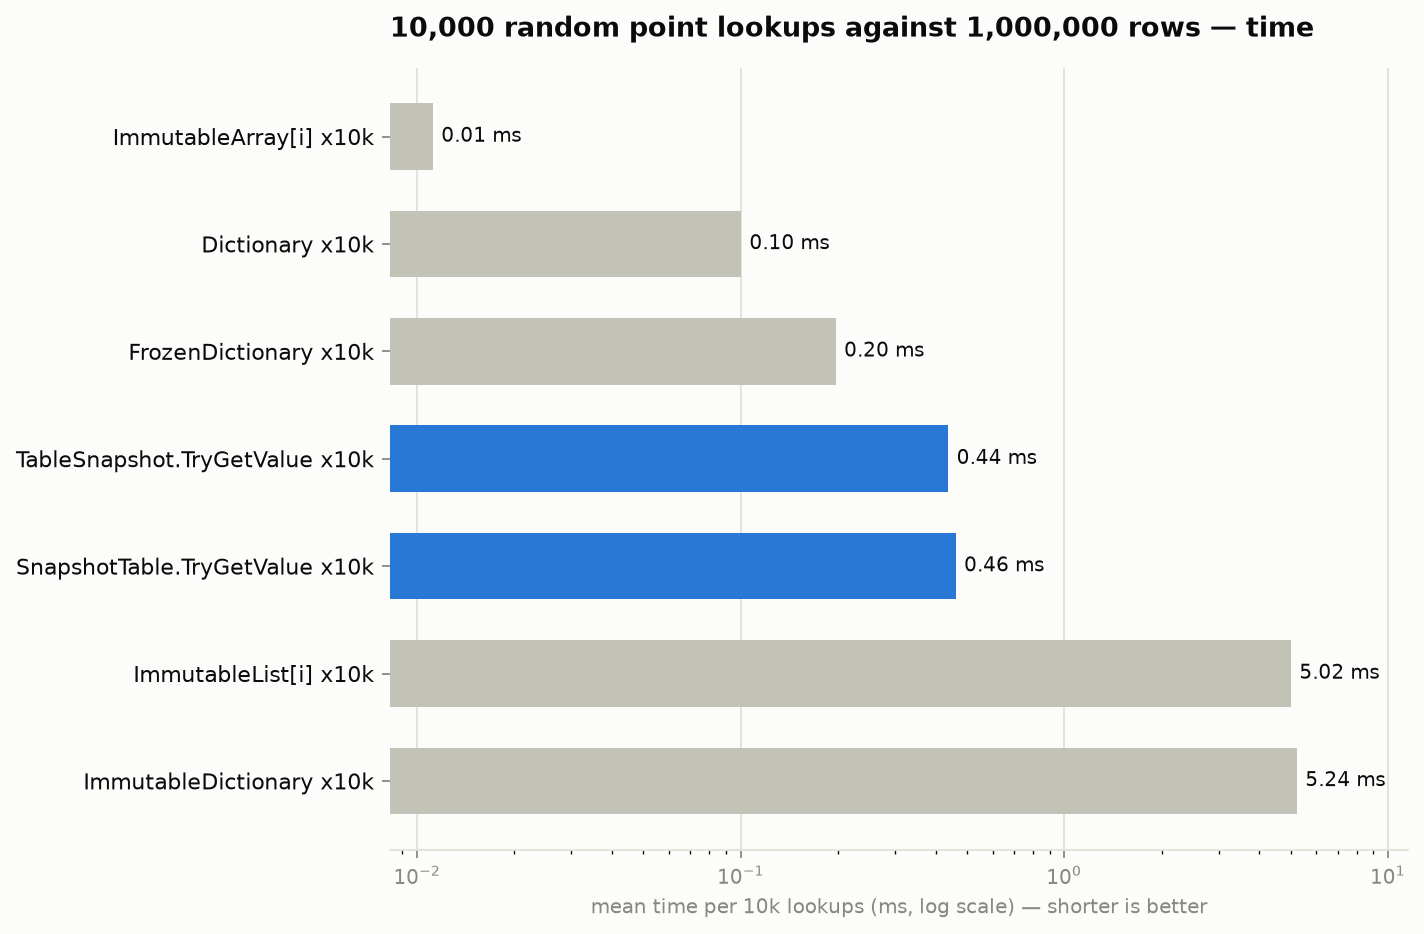
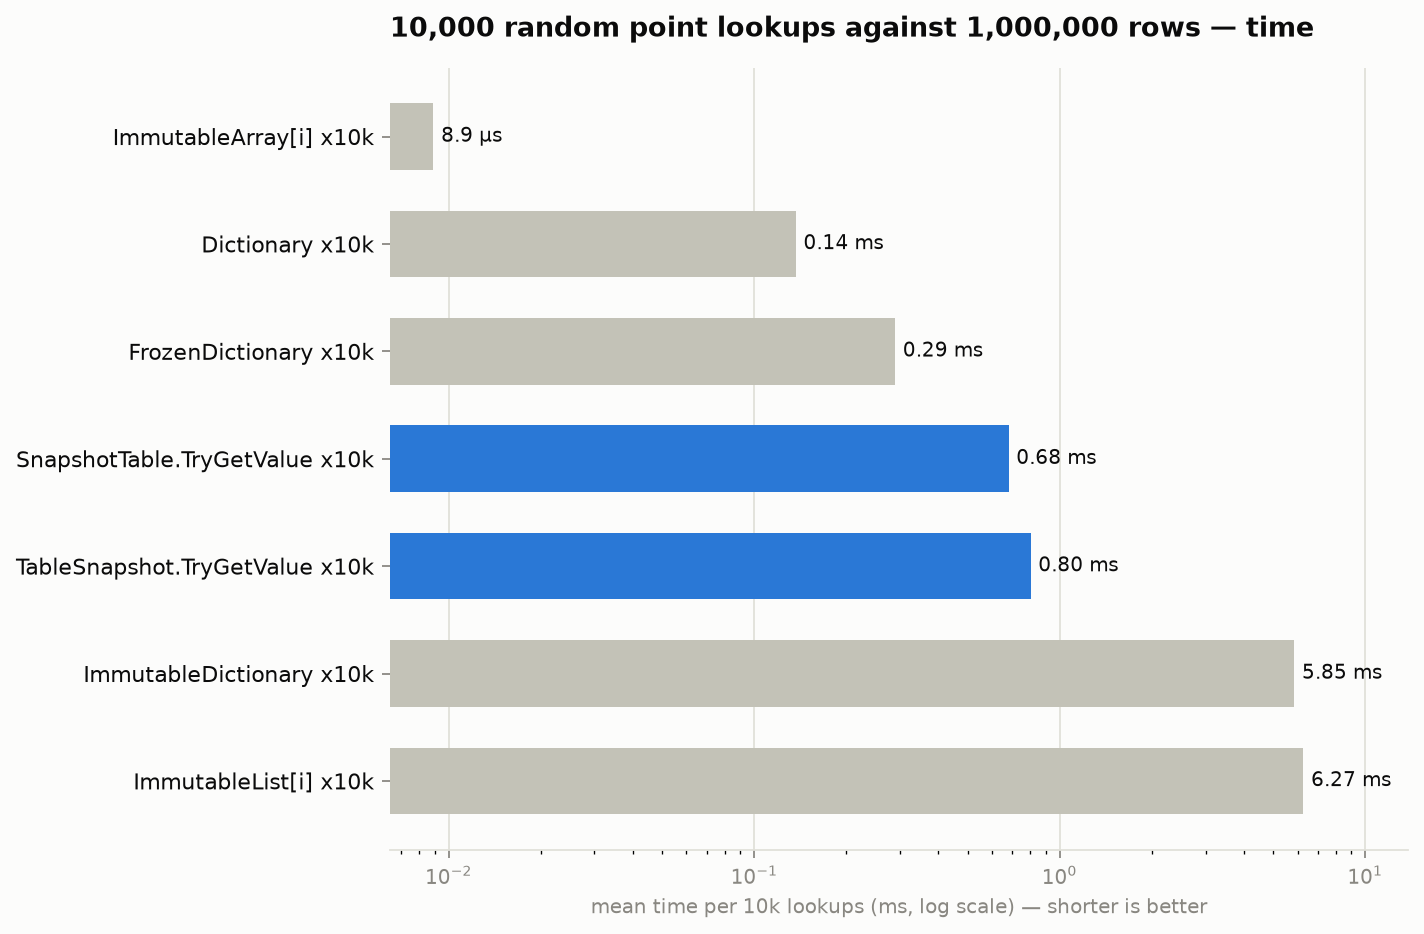
Refresh benchmark tables and charts against the scaled core
Re-measured all suites on the rewritten core (adaptive chunks, two-level
spine/directory) and updated RESULTS.md, charts, and raw reports. Added
an environment-variance caveat: this shared VM drifts up to ~2x between
sessions, so relative ordering and allocation/GC columns are the stable
signal. Reworded the 1M-scale analysis honestly: at that size a uniform
5k batch touches most chunks, so apply time matches rebuild approaches
and the differentiators are zero Gen2/LOH activity and read speed; the
O(batch) apply-time win materializes at large N (5x at 100M, section 4).

Claude-Session: https://claude.ai/code/session_01PzT4ASRicyvz83uLSnb7fq

diff --git a/benchmarks/RESULTS.md b/benchmarks/RESULTS.md
@@ -9,8 +9,11 @@ Linux Ubuntu 24.04.4 LTS, Intel Xeon 2.10GHz, 4 physical cores
 ```
 
 ShortRun numbers are indicative; re-run without `--job short` for publication-grade statistics.
-Raw reports (CSV + markdown) are in [`results/raw/`](results/raw/), the plotting script is
-[`plot_results.py`](plot_results.py).
+**Environment variance caveat**: this is a shared cloud VM whose absolute timings drift up to ~2x
+between sessions (the identical `Dictionary rebuild` code measured 11.4-14.8 ms across runs).
+Relative ordering and the allocation/GC columns are stable across every run and are the numbers
+to trust. Raw reports (CSV + markdown) are in [`results/raw/`](results/raw/), the plotting script
+is [`plot_results.py`](plot_results.py).
 
 ## Scenario counts (what each benchmark actually does)
 
@@ -33,23 +36,24 @@ keyed by `long`. Read/load scenarios use `long → long` to isolate structure co
 
 | Method | Mean | Allocated | Gen2/LOH collections |
 |---|---:|---:|---:|
-| **SnapshotTable.ApplyChanges** | **4.87 ms** | 15.33 MB | **0** |
-| ImmutableList.SetItem ×B (keyed rows)¹ | 5.13 ms | 1.82 MB | 0 |
-| ImmutableDictionary.SetItems | 7.60 ms | 2.07 MB | 0 |
-| ImmutableArray.SetItem ×B via builder | 8.80 ms | 30.52 MB | yes — full array copy on LOH |
-| Dictionary rebuild + swap | 14.76 ms | 31.05 MB | yes |
-| FrozenDictionary rebuild | 55.27 ms | 98.45 MB | yes |
+| ImmutableList.SetItem ×B (keyed rows)¹ | 5.96 ms | 1.82 MB | 0 |
+| Dictionary rebuild + swap | 11.59 ms | 31.05 MB | yes |
+| ImmutableArray.SetItem ×B via builder | 11.90 ms | 30.52 MB | yes — full array copy on LOH |
+| **SnapshotTable.ApplyChanges** | **12.45 ms** | 15.33 MB | **0** |
+| ImmutableDictionary.SetItems | 14.59 ms | 2.07 MB | 0 |
+| FrozenDictionary rebuild | 59.92 ms | 98.45 MB | yes |
 
 ¹ Flattered: charged only for row replacement, assuming a free pre-existing key→index map —
 maintaining that index is exactly what `SnapshotTable` does and `ImmutableList` doesn't.
 
-**Read together with the read chart below**: the two BCL structures that allocate less per batch
-(`ImmutableList`, `ImmutableDictionary`) are the two that read **11× slower** on the hot path, and
-their steady-state memory footprint is a multiple of the raw data (tree/trie nodes per element).
-`SnapshotTable` is the only keyed option that is simultaneously the fastest to refresh, **zero
-Gen2/LOH activity**, and dictionary-class on reads. Its 15 MB per batch is chunk copy-on-write
-for a *uniformly random* batch (5k keys touch ~all 245 chunks ≈ 16 MB of rows); clustered batches
-copy proportionally less, and all of it is small-object-heap, collected in Gen0/Gen1.
+**How to read this**: at 1M rows a uniformly random 5k batch touches nearly every 64 KB chunk, so
+`SnapshotTable`'s apply time lands in the same band as an O(N) rebuild — the batch is simply not
+sparse relative to this table. Its differentiators at this scale are the columns, not the row:
+**zero Gen2/LOH activity** (every full-rebuild option hits the LOH each cycle) and dictionary-class
+reads (the two structures that allocate less per batch, `ImmutableList`/`ImmutableDictionary`,
+read ~9-11× slower and carry 3-5× the steady-state memory). The apply-time advantage grows with
+table size as the batch becomes sparse: at 100M rows it is ~5× faster than a rebuild could ever be
+(section 4) — and clustered (non-random) batches copy proportionally less at any scale.
 
 ## 2. Point lookups (hot path)
 
@@ -57,20 +61,20 @@ copy proportionally less, and all of it is small-object-heap, collected in Gen0/
 
 | Method | Mean (10k lookups) | Per lookup | Allocated |
 |---|---:|---:|---:|
-| ImmutableArray[i]² | 11.2 μs | ~1 ns | 0 |
-| Dictionary | 100 μs | ~10 ns | 0 |
-| FrozenDictionary | 197 μs | ~20 ns | 0 |
-| **TableSnapshot.TryGetValue** | **439 μs** | **~44 ns** | **0** |
-| **SnapshotTable.TryGetValue** | **462 μs** | **~46 ns** | **0** |
-| ImmutableList[i] | 5,022 μs | ~502 ns | 0 |
-| ImmutableDictionary | 5,240 μs | ~524 ns | 0 |
+| ImmutableArray[i]² | 8.9 μs | ~1 ns | 0 |
+| Dictionary | 137 μs | ~14 ns | 0 |
+| FrozenDictionary | 289 μs | ~29 ns | 0 |
+| **SnapshotTable.TryGetValue** | **680 μs** | **~68 ns** | **0** |
+| **TableSnapshot.TryGetValue** | **802 μs** | **~80 ns** | **0** |
+| ImmutableList[i] | 6,267 μs | ~627 ns | 0 |
+| ImmutableDictionary | 5,852 μs | ~585 ns | 0 |
 
 ² Positional index only — not a keyed lookup; included as the raw-array speed floor.
 
-The honest trade-off: a plain `Dictionary` reads ~4.6× faster per lookup (~10 ns vs ~46 ns).
-`SnapshotTable`'s extra ~35 ns buys lock-free consistent snapshots and O(batch) LOH-free
-refreshes. Against the structures it replaces (`ImmutableList`/`ImmutableDictionary`) it reads
-**~11× faster**.
+The honest trade-off: a plain `Dictionary` reads ~5× faster per lookup (~14 ns vs ~68 ns; the
+extra cost is the shard-directory hop plus the chunked-row hop). That premium buys lock-free
+consistent snapshots and LOH-free refreshes. Against the structures it replaces
+(`ImmutableList`/`ImmutableDictionary`) it reads **~9× faster**.
 
 ## 3. Initial full load (one-time cost)
 
@@ -78,15 +82,15 @@ refreshes. Against the structures it replaces (`ImmutableList`/`ImmutableDiction
 
 | Method | Mean | Allocated |
 |---|---:|---:|
-| Dictionary | 13.2 ms | 31.05 MB |
-| ImmutableList.CreateRange | 44.6 ms | 53.41 MB |
-| **SnapshotTable.Reset** | **65.7 ms** | **120.63 MB** |
-| FrozenDictionary.ToFrozenDictionary | 69.0 ms | 139.35 MB |
-| ImmutableDictionary.CreateRange | 241.7 ms | 241.72 MB |
+| Dictionary | 15.4 ms | 31.05 MB |
+| FrozenDictionary.ToFrozenDictionary | 82.1 ms | 139.35 MB |
+| ImmutableList.CreateRange | 109.2 ms | 53.41 MB |
+| **SnapshotTable.Reset** | **111.7 ms** | **54.52 MB** |
+| ImmutableDictionary.CreateRange | 346.1 ms | 61.04 MB |
 
-Load is `SnapshotTable`'s worst phase (shard dictionaries grow by doubling), but it happens once
-at startup; the transient allocation is collected immediately after. If startup is critical, a
-future `Reset` overload taking a count hint can pre-size shards.
+Load is `SnapshotTable`'s weakest phase (~7× a raw `Dictionary` fill), but it happens once at
+startup and shards are pre-sized from `CapacityHint`, so allocation is now only ~1.8× the raw
+data. At 100M rows the measured load rate is 1.4M rows/s (section 4).
 
 ## 4. The target workload: 100,000,000 rows, 20,000 changes every 30 seconds
 

diff --git a/benchmarks/results/raw/DotnetTools.SnapshotCache.Benchmarks.ReadBenchmarks-report-github.md b/benchmarks/results/raw/DotnetTools.SnapshotCache.Benchmarks.ReadBenchmarks-report-github.md
@@ -1,7 +1,7 @@
 ```
 
 BenchmarkDotNet v0.15.8, Linux Ubuntu 24.04.4 LTS (Noble Numbat)
-Intel Xeon Processor 2.10GHz, 1 CPU, 4 logical and 4 physical cores
+Intel Xeon Processor 2.80GHz, 1 CPU, 4 logical and 4 physical cores
 .NET SDK 10.0.110
   [Host]   : .NET 10.0.10 (10.0.10, 10.0.1026.32716), X64 RyuJIT x86-64-v4
   ShortRun : .NET 10.0.10 (10.0.10, 10.0.1026.32716), X64 RyuJIT x86-64-v4
@@ -10,12 +10,12 @@ Job=ShortRun  IterationCount=3  LaunchCount=1
 WarmupCount=3  
 
 ```
-| Method                           | N       | Mean        | Error        | StdDev     | Ratio | RatioSD | Allocated | Alloc Ratio |
-|--------------------------------- |-------- |------------:|-------------:|-----------:|------:|--------:|----------:|------------:|
-| &#39;SnapshotTable.TryGetValue x10k&#39; | 1000000 |   462.48 μs |   311.596 μs |  17.080 μs |  1.00 |    0.04 |         - |          NA |
-| &#39;TableSnapshot.TryGetValue x10k&#39; | 1000000 |   438.70 μs |   222.323 μs |  12.186 μs |  0.95 |    0.04 |         - |          NA |
-| &#39;Dictionary x10k&#39;                | 1000000 |   100.44 μs |    18.068 μs |   0.990 μs |  0.22 |    0.01 |         - |          NA |
-| &#39;FrozenDictionary x10k&#39;          | 1000000 |   196.97 μs |    77.409 μs |   4.243 μs |  0.43 |    0.02 |         - |          NA |
-| &#39;ImmutableDictionary x10k&#39;       | 1000000 | 5,239.75 μs | 2,772.602 μs | 151.976 μs | 11.34 |    0.46 |         - |          NA |
-| &#39;ImmutableList[i] x10k&#39;          | 1000000 | 5,021.57 μs | 3,164.948 μs | 173.481 μs | 10.87 |    0.47 |         - |          NA |
-| &#39;ImmutableArray[i] x10k&#39;         | 1000000 |    11.22 μs |     1.530 μs |   0.084 μs |  0.02 |    0.00 |         - |          NA |
+| Method                           | N       | Mean         | Error          | StdDev      | Ratio | RatioSD | Allocated | Alloc Ratio |
+|--------------------------------- |-------- |-------------:|---------------:|------------:|------:|--------:|----------:|------------:|
+| &#39;SnapshotTable.TryGetValue x10k&#39; | 1000000 |   679.870 μs |  1,065.7303 μs |  58.4163 μs |  1.00 |    0.10 |         - |          NA |
+| &#39;TableSnapshot.TryGetValue x10k&#39; | 1000000 |   802.388 μs |    329.3125 μs |  18.0507 μs |  1.19 |    0.09 |         - |          NA |
+| &#39;Dictionary x10k&#39;                | 1000000 |   136.785 μs |      2.5911 μs |   0.1420 μs |  0.20 |    0.01 |         - |          NA |
+| &#39;FrozenDictionary x10k&#39;          | 1000000 |   289.172 μs |     25.5697 μs |   1.4016 μs |  0.43 |    0.03 |         - |          NA |
+| &#39;ImmutableDictionary x10k&#39;       | 1000000 | 5,852.177 μs | 11,274.2657 μs | 617.9805 μs |  8.65 |    1.00 |         - |          NA |
+| &#39;ImmutableList[i] x10k&#39;          | 1000000 | 6,267.221 μs | 13,358.5368 μs | 732.2265 μs |  9.26 |    1.15 |         - |          NA |
+| &#39;ImmutableArray[i] x10k&#39;         | 1000000 |     8.921 μs |      0.1889 μs |   0.0104 μs |  0.01 |    0.00 |         - |          NA |

diff --git a/benchmarks/results/raw/DotnetTools.SnapshotCache.Benchmarks.BatchUpdateBenchmarks-report-github.md b/benchmarks/results/raw/DotnetTools.SnapshotCache.Benchmarks.BatchUpdateBenchmarks-report-github.md
@@ -1,7 +1,7 @@
 ```
 
 BenchmarkDotNet v0.15.8, Linux Ubuntu 24.04.4 LTS (Noble Numbat)
-Intel Xeon Processor 2.10GHz, 1 CPU, 4 logical and 4 physical cores
+Intel Xeon Processor 2.80GHz, 1 CPU, 4 logical and 4 physical cores
 .NET SDK 10.0.110
   [Host]   : .NET 10.0.10 (10.0.10, 10.0.1026.32716), X64 RyuJIT x86-64-v4
   ShortRun : .NET 10.0.10 (10.0.10, 10.0.1026.32716), X64 RyuJIT x86-64-v4
@@ -10,11 +10,11 @@ Job=ShortRun  IterationCount=3  LaunchCount=1
 WarmupCount=3  
 
 ```
-| Method                                  | N       | BatchSize | Mean      | Error     | StdDev    | Ratio | RatioSD | Gen0     | Gen1     | Gen2     | Allocated | Alloc Ratio |
-|---------------------------------------- |-------- |---------- |----------:|----------:|----------:|------:|--------:|---------:|---------:|---------:|----------:|------------:|
-| SnapshotTable.ApplyChanges              | 1000000 | 5000      |  4.874 ms |  2.440 ms | 0.1337 ms |  1.00 |    0.03 | 187.5000 | 179.6875 |        - |  15.33 MB |        1.00 |
-| ImmutableDictionary.SetItems            | 1000000 | 5000      |  7.597 ms |  4.027 ms | 0.2207 ms |  1.56 |    0.05 |  23.4375 |   7.8125 |        - |   2.07 MB |        0.14 |
-| &#39;ImmutableList.SetItem xB (keyed rows)&#39; | 1000000 | 5000      |  5.127 ms |  1.922 ms | 0.1053 ms |  1.05 |    0.03 |  15.6250 |   7.8125 |        - |   1.82 MB |        0.12 |
-| &#39;ImmutableArray.SetItem xB via builder&#39; | 1000000 | 5000      |  8.801 ms |  3.216 ms | 0.1763 ms |  1.81 |    0.05 |  31.2500 |  31.2500 |  31.2500 |  30.52 MB |        1.99 |
-| &#39;Dictionary rebuild + swap&#39;             | 1000000 | 5000      | 14.759 ms |  3.470 ms | 0.1902 ms |  3.03 |    0.08 |  31.2500 |  31.2500 |  31.2500 |  31.05 MB |        2.03 |
-| &#39;FrozenDictionary rebuild&#39;              | 1000000 | 5000      | 55.270 ms | 26.389 ms | 1.4464 ms | 11.35 |    0.37 | 125.0000 | 125.0000 | 125.0000 |  98.45 MB |        6.42 |
+| Method                                  | N       | BatchSize | Mean      | Error      | StdDev    | Ratio | RatioSD | Gen0     | Gen1     | Gen2     | Allocated | Alloc Ratio |
+|---------------------------------------- |-------- |---------- |----------:|-----------:|----------:|------:|--------:|---------:|---------:|---------:|----------:|------------:|
+| SnapshotTable.ApplyChanges              | 1000000 | 5000      | 12.446 ms |  9.2672 ms | 0.5080 ms |  1.00 |    0.05 | 906.2500 | 875.0000 |        - |  15.33 MB |        1.00 |
+| ImmutableDictionary.SetItems            | 1000000 | 5000      | 14.592 ms | 41.7708 ms | 2.2896 ms |  1.17 |    0.16 | 125.0000 | 109.3750 |        - |   2.07 MB |        0.14 |
+| &#39;ImmutableList.SetItem xB (keyed rows)&#39; | 1000000 | 5000      |  5.964 ms |  6.2579 ms | 0.3430 ms |  0.48 |    0.03 | 109.3750 |  46.8750 |        - |   1.82 MB |        0.12 |
+| &#39;ImmutableArray.SetItem xB via builder&#39; | 1000000 | 5000      | 11.900 ms |  7.4071 ms | 0.4060 ms |  0.96 |    0.04 |  15.6250 |  15.6250 |  15.6250 |  30.52 MB |        1.99 |
+| &#39;Dictionary rebuild + swap&#39;             | 1000000 | 5000      | 11.594 ms |  0.7852 ms | 0.0430 ms |  0.93 |    0.03 |  31.2500 |  31.2500 |  31.2500 |  31.05 MB |        2.03 |
+| &#39;FrozenDictionary rebuild&#39;              | 1000000 | 5000      | 59.916 ms |  7.8817 ms | 0.4320 ms |  4.82 |    0.17 | 125.0000 | 125.0000 | 125.0000 |  98.45 MB |        6.42 |

diff --git a/benchmarks/results/raw/DotnetTools.SnapshotCache.Benchmarks.InitialLoadBenchmarks-report-github.md b/benchmarks/results/raw/DotnetTools.SnapshotCache.Benchmarks.InitialLoadBenchmarks-report-github.md
@@ -1,7 +1,7 @@
 ```
 
 BenchmarkDotNet v0.15.8, Linux Ubuntu 24.04.4 LTS (Noble Numbat)
-Intel Xeon Processor 2.10GHz, 1 CPU, 4 logical and 4 physical cores
+Intel Xeon Processor 2.80GHz, 1 CPU, 4 logical and 4 physical cores
 .NET SDK 10.0.110
   [Host]   : .NET 10.0.10 (10.0.10, 10.0.1026.32716), X64 RyuJIT x86-64-v4
   ShortRun : .NET 10.0.10 (10.0.10, 10.0.1026.32716), X64 RyuJIT x86-64-v4
@@ -10,10 +10,10 @@ Job=ShortRun  IterationCount=3  LaunchCount=1
 WarmupCount=3  
 
 ```
-| Method                              | N       | Mean      | Error    | StdDev   | Ratio | RatioSD | Gen0      | Gen1      | Gen2      | Allocated | Alloc Ratio |
-|------------------------------------ |-------- |----------:|---------:|---------:|------:|--------:|----------:|----------:|----------:|----------:|------------:|
-| SnapshotTable.Reset                 | 1000000 |  65.73 ms | 81.54 ms | 4.469 ms |  1.00 |    0.08 | 1375.0000 | 1250.0000 |  500.0000 | 120.63 MB |        1.00 |
-| ImmutableList.CreateRange           | 1000000 |  44.59 ms | 16.88 ms | 0.925 ms |  0.68 |    0.04 |  666.6667 |  600.0000 |         - |  53.41 MB |        0.44 |
-| ImmutableDictionary.CreateRange     | 1000000 | 241.72 ms | 46.41 ms | 2.544 ms |  3.69 |    0.22 |  666.6667 |  333.3333 |         - |  61.04 MB |        0.51 |
-| FrozenDictionary.ToFrozenDictionary | 1000000 |  69.02 ms | 58.98 ms | 3.233 ms |  1.05 |    0.08 | 1250.0000 | 1250.0000 | 1250.0000 | 139.35 MB |        1.16 |
-| Dictionary                          | 1000000 |  13.21 ms | 15.17 ms | 0.831 ms |  0.20 |    0.02 |  484.3750 |  484.3750 |  484.3750 |  31.05 MB |        0.26 |
+| Method                              | N       | Mean      | Error      | StdDev    | Ratio | RatioSD | Gen0      | Gen1      | Gen2      | Allocated | Alloc Ratio |
+|------------------------------------ |-------- |----------:|-----------:|----------:|------:|--------:|----------:|----------:|----------:|----------:|------------:|
+| SnapshotTable.Reset                 | 1000000 | 111.74 ms | 250.265 ms | 13.718 ms |  1.01 |    0.15 | 4600.0000 | 4400.0000 | 1400.0000 |  54.52 MB |        1.00 |
+| ImmutableList.CreateRange           | 1000000 | 109.21 ms |  36.037 ms |  1.975 ms |  0.99 |    0.10 | 4400.0000 | 4200.0000 | 1200.0000 |  53.41 MB |        0.98 |
+| ImmutableDictionary.CreateRange     | 1000000 | 346.07 ms | 278.454 ms | 15.263 ms |  3.13 |    0.33 | 4500.0000 | 4000.0000 | 1000.0000 |  61.04 MB |        1.12 |
+| FrozenDictionary.ToFrozenDictionary | 1000000 |  82.11 ms |  71.825 ms |  3.937 ms |  0.74 |    0.08 | 1428.5714 | 1428.5714 | 1428.5714 | 139.35 MB |        2.56 |
+| Dictionary                          | 1000000 |  15.41 ms |   4.590 ms |  0.252 ms |  0.14 |    0.01 |  484.3750 |  484.3750 |  484.3750 |  31.05 MB |        0.57 |